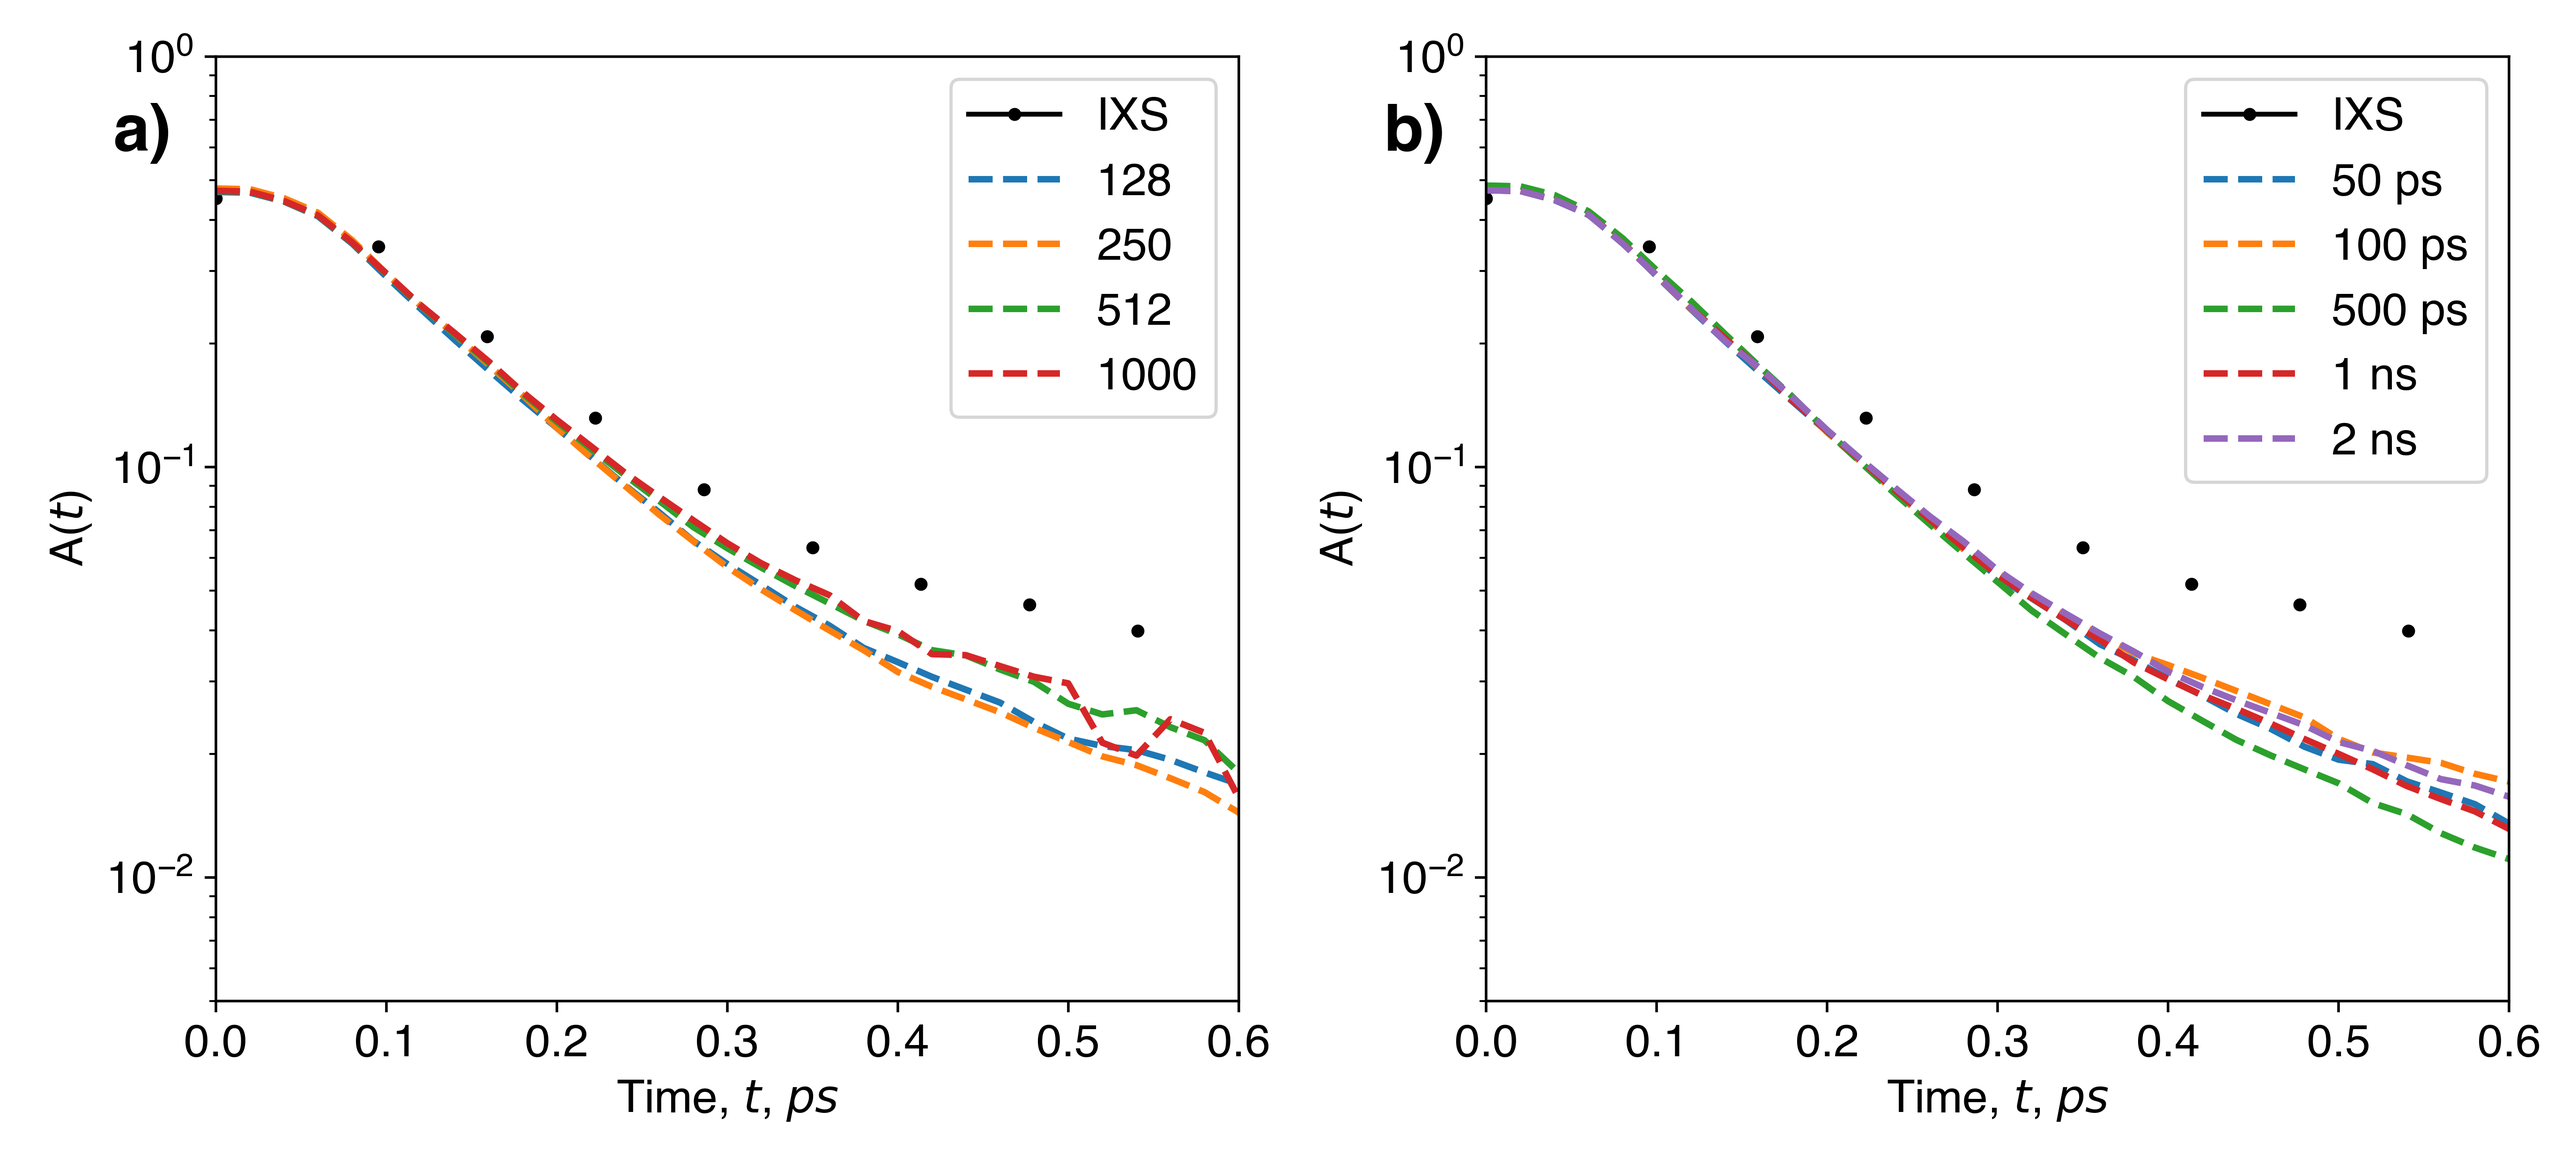
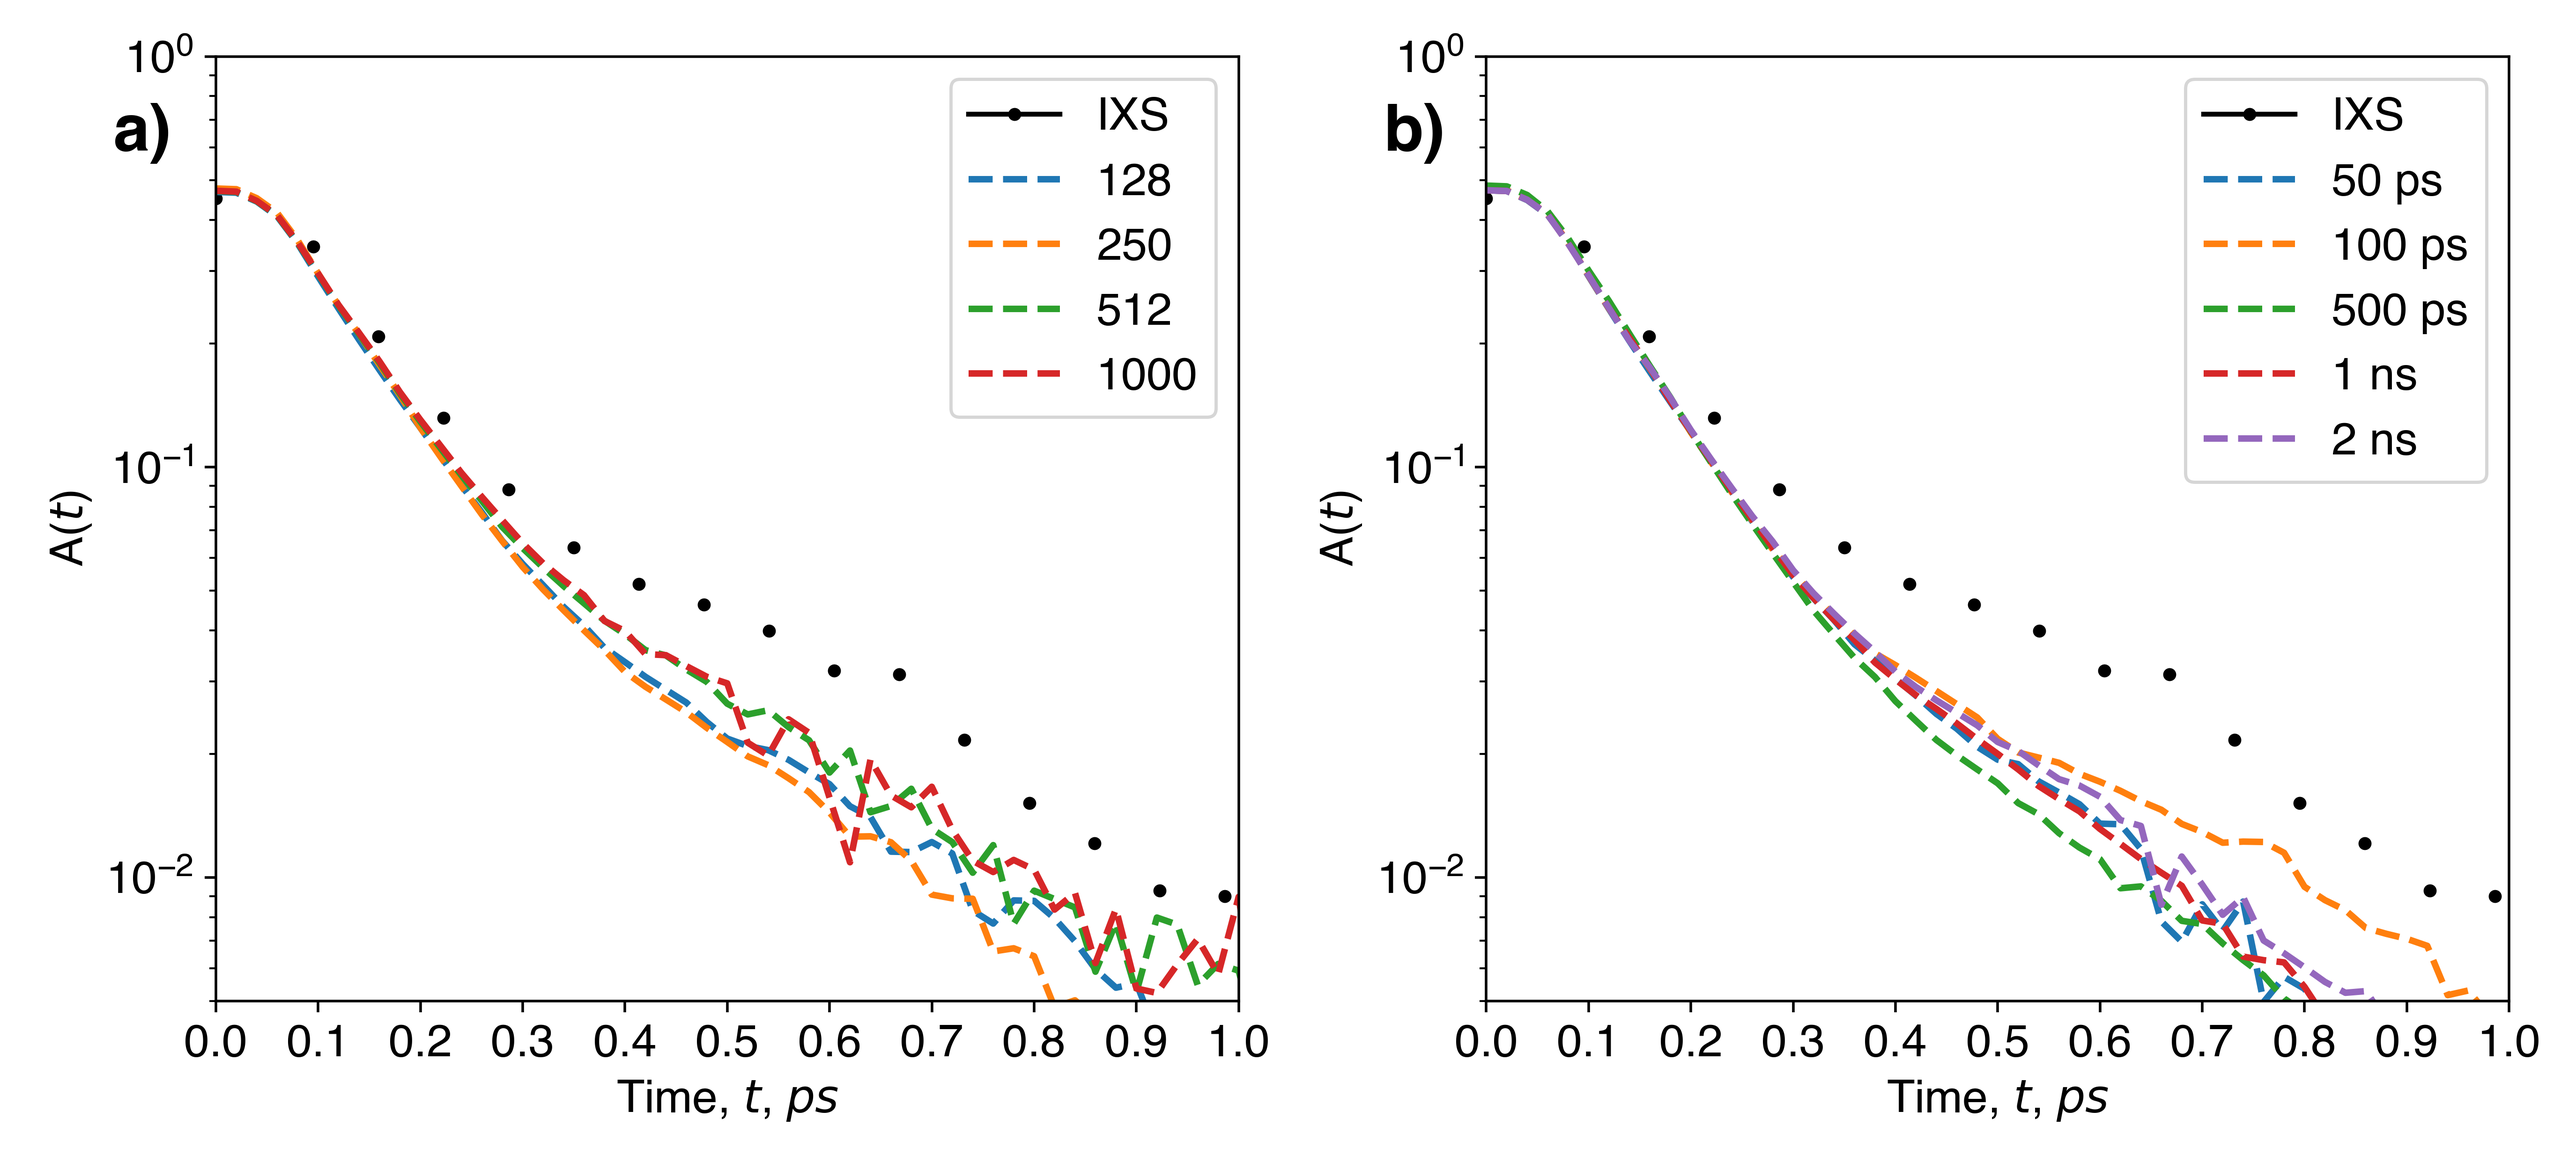
Use new reaxff data in plots

diff --git a/water_vhf_analysis/analysis/plot_relaxation.py b/water_vhf_analysis/analysis/plot_relaxation.py
@@ -79,9 +79,9 @@ tip3p_ew = {
 }
 
 reaxff = {
-    "r": np.loadtxt(get_txt_file("reaxff/overlap_nvt", "r_final.txt")),
-    "t": np.loadtxt(get_txt_file("reaxff/overlap_nvt", "t_final.txt")),
-    "g": np.loadtxt(get_txt_file("reaxff/overlap_nvt", "vhf_final.txt")),
+    "r": np.loadtxt(get_txt_file("reaxff/9000_overlap_nvt", "r_final.txt")),
+    "t": np.loadtxt(get_txt_file("reaxff/9000_overlap_nvt", "t_final.txt")),
+    "g": np.loadtxt(get_txt_file("reaxff/9000_overlap_nvt", "vhf_final.txt")),
     "name": "CHON-2017_weak (ReaxFF)",
 }
 
@@ -629,9 +629,9 @@ if __name__ == "__main__":
     # plot_first_fit()
     first_peak_auc(datas)
     first_peak_auc(datas, si=True)
-    #plot_peak_locations(datas)
-    #plot_first_peak_subplot(datas, si=True)
-    #plot_first_peak_subplot(datas)
+    plot_peak_locations(datas)
+    plot_first_peak_subplot(datas, si=True)
+    plot_first_peak_subplot(datas)
     # first_cn(datas)
-    #plot_fits()
+    plot_fits()
     #plot_second_subplot(datas)
